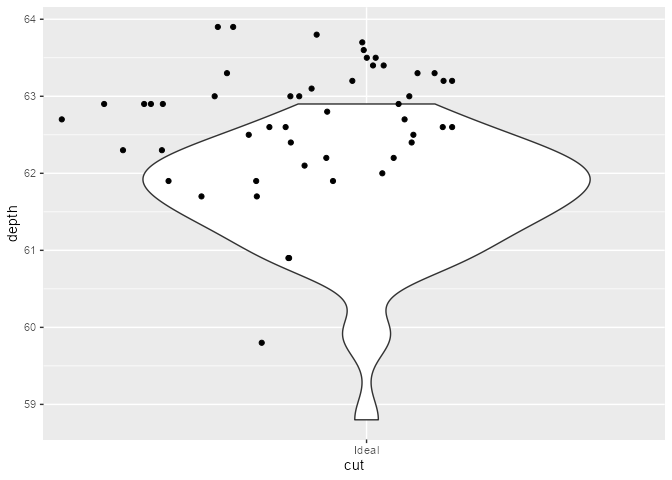
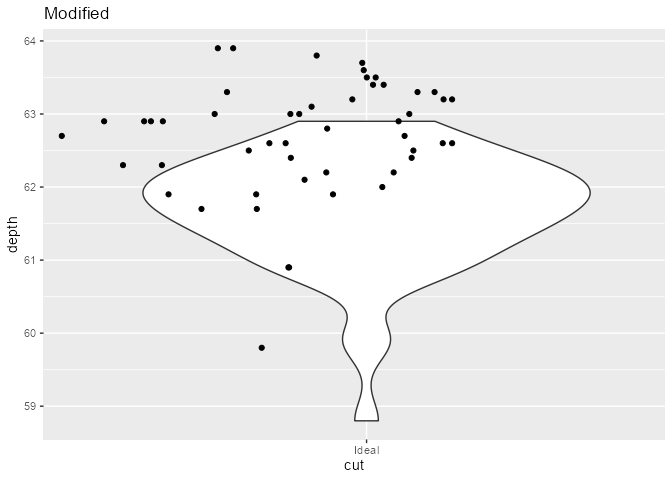
resolves #42

diff --git a/docs/index.html b/docs/index.html
@@ -236,7 +236,7 @@
 <span id="cb4-10"><a href="#cb4-10" aria-hidden="true" tabindex="-1"></a>  ),</span>
 <span id="cb4-11"><a href="#cb4-11" aria-hidden="true" tabindex="-1"></a>  <span class="at">print_output =</span> <span class="cn">FALSE</span>   <span class="co"># Don't print evaluated expressions to console</span></span>
 <span id="cb4-12"><a href="#cb4-12" aria-hidden="true" tabindex="-1"></a>)</span>
-<span id="cb4-13"><a href="#cb4-13" aria-hidden="true" tabindex="-1"></a><span class="co">#&gt; PositionJitter$compute_layer now being traced</span></span>
+<span id="cb4-13"><a href="#cb4-13" aria-hidden="true" tabindex="-1"></a><span class="co">#&gt; PositionJitter$compute_layer now being traced.</span></span>
 <span id="cb4-14"><a href="#cb4-14" aria-hidden="true" tabindex="-1"></a></span>
 <span id="cb4-15"><a href="#cb4-15" aria-hidden="true" tabindex="-1"></a><span class="co"># plot not printed to save space</span></span>
 <span id="cb4-16"><a href="#cb4-16" aria-hidden="true" tabindex="-1"></a>jitter_plot</span>
@@ -351,7 +351,7 @@
 <span id="cb8-4"><a href="#cb8-4" aria-hidden="true" tabindex="-1"></a>  <span class="at">trace_exprs =</span> <span class="fu">quote</span>(<span class="sc">~</span>step), <span class="co"># Grab the gList() object it returns</span></span>
 <span id="cb8-5"><a href="#cb8-5" aria-hidden="true" tabindex="-1"></a>  <span class="at">print_output =</span> <span class="cn">FALSE</span></span>
 <span id="cb8-6"><a href="#cb8-6" aria-hidden="true" tabindex="-1"></a>)</span>
-<span id="cb8-7"><a href="#cb8-7" aria-hidden="true" tabindex="-1"></a><span class="co">#&gt; GeomSmooth$draw_group now being traced</span></span>
+<span id="cb8-7"><a href="#cb8-7" aria-hidden="true" tabindex="-1"></a><span class="co">#&gt; GeomSmooth$draw_group now being traced.</span></span>
 <span id="cb8-8"><a href="#cb8-8" aria-hidden="true" tabindex="-1"></a></span>
 <span id="cb8-9"><a href="#cb8-9" aria-hidden="true" tabindex="-1"></a><span class="co"># plot not printed to save space</span></span>
 <span id="cb8-10"><a href="#cb8-10" aria-hidden="true" tabindex="-1"></a>smooth_plot</span>
@@ -482,13 +482,13 @@
 <span id="cb16-4"><a href="#cb16-4" aria-hidden="true" tabindex="-1"></a>  <span class="at">trace_exprs =</span> rlang<span class="sc">::</span><span class="fu">exprs</span>(</span>
 <span id="cb16-5"><a href="#cb16-5" aria-hidden="true" tabindex="-1"></a>    <span class="at">splits      =</span> <span class="sc">~</span>step,         <span class="co"># What are the splits?</span></span>
 <span id="cb16-6"><a href="#cb16-6" aria-hidden="true" tabindex="-1"></a>    <span class="at">combined    =</span> <span class="sc">~</span>step,         <span class="co"># What does the combined result look like?</span></span>
-<span id="cb16-7"><a href="#cb16-7" aria-hidden="true" tabindex="-1"></a>    <span class="at">runtime_env =</span> <span class="fu">environment</span>()  <span class="co"># Grab the method environment</span></span>
+<span id="cb16-7"><a href="#cb16-7" aria-hidden="true" tabindex="-1"></a>    <span class="at">runtime_env =</span> <span class="fu">environment</span>()  <span class="co"># Grab the method's execution environment</span></span>
 <span id="cb16-8"><a href="#cb16-8" aria-hidden="true" tabindex="-1"></a>  ),</span>
 <span id="cb16-9"><a href="#cb16-9" aria-hidden="true" tabindex="-1"></a>  <span class="at">use_names =</span> <span class="cn">TRUE</span>,       <span class="co"># Use names of `trace_exprs` for names of the tracedump (default)</span></span>
 <span id="cb16-10"><a href="#cb16-10" aria-hidden="true" tabindex="-1"></a>  <span class="at">verbose =</span> <span class="cn">FALSE</span>         <span class="co"># Suppress all printing (except `message()`s)</span></span>
 <span id="cb16-11"><a href="#cb16-11" aria-hidden="true" tabindex="-1"></a>                          <span class="co"># This entails the effects of `print_output = FALSE`</span></span>
 <span id="cb16-12"><a href="#cb16-12" aria-hidden="true" tabindex="-1"></a>)</span>
-<span id="cb16-13"><a href="#cb16-13" aria-hidden="true" tabindex="-1"></a><span class="co">#&gt; Stat$compute_panel now being traced</span></span>
+<span id="cb16-13"><a href="#cb16-13" aria-hidden="true" tabindex="-1"></a><span class="co">#&gt; Stat$compute_panel now being traced.</span></span>
 <span id="cb16-14"><a href="#cb16-14" aria-hidden="true" tabindex="-1"></a></span>
 <span id="cb16-15"><a href="#cb16-15" aria-hidden="true" tabindex="-1"></a><span class="co"># plot not printed to save space</span></span>
 <span id="cb16-16"><a href="#cb16-16" aria-hidden="true" tabindex="-1"></a>boxplot_plot</span>
@@ -501,15 +501,15 @@
 </h3>
 <div class="sourceCode" id="cb17"><pre class="sourceCode R"><code class="sourceCode r"><span id="cb17-1"><a href="#cb17-1" aria-hidden="true" tabindex="-1"></a>boxplot_tracedump <span class="ot">&lt;-</span> <span class="fu">last_ggtrace</span>()</span>
 <span id="cb17-2"><a href="#cb17-2" aria-hidden="true" tabindex="-1"></a></span>
-<span id="cb17-3"><a href="#cb17-3" aria-hidden="true" tabindex="-1"></a><span class="co"># Names are clean</span></span>
+<span id="cb17-3"><a href="#cb17-3" aria-hidden="true" tabindex="-1"></a><span class="co"># Trace dump is named after `trace_exprs`</span></span>
 <span id="cb17-4"><a href="#cb17-4" aria-hidden="true" tabindex="-1"></a><span class="fu">names</span>(boxplot_tracedump)</span>
 <span id="cb17-5"><a href="#cb17-5" aria-hidden="true" tabindex="-1"></a><span class="co">#&gt; [1] "splits"      "combined"    "runtime_env"</span></span>
 <span id="cb17-6"><a href="#cb17-6" aria-hidden="true" tabindex="-1"></a></span>
 <span id="cb17-7"><a href="#cb17-7" aria-hidden="true" tabindex="-1"></a><span class="co"># Inspect the splits</span></span>
-<span id="cb17-8"><a href="#cb17-8" aria-hidden="true" tabindex="-1"></a><span class="fu">sapply</span>(boxplot_tracedump[[<span class="dv">1</span>]], nrow)</span>
+<span id="cb17-8"><a href="#cb17-8" aria-hidden="true" tabindex="-1"></a><span class="fu">sapply</span>(boxplot_tracedump[[<span class="st">"splits"</span>]], nrow)</span>
 <span id="cb17-9"><a href="#cb17-9" aria-hidden="true" tabindex="-1"></a><span class="co">#&gt;   1   2   3   4   5 </span></span>
 <span id="cb17-10"><a href="#cb17-10" aria-hidden="true" tabindex="-1"></a><span class="co">#&gt;  26  51 127 144 152</span></span>
-<span id="cb17-11"><a href="#cb17-11" aria-hidden="true" tabindex="-1"></a><span class="fu">lapply</span>(boxplot_tracedump[[<span class="dv">1</span>]], head, <span class="dv">3</span>)</span>
+<span id="cb17-11"><a href="#cb17-11" aria-hidden="true" tabindex="-1"></a><span class="fu">lapply</span>(boxplot_tracedump<span class="sc">$</span>splits, head, <span class="dv">3</span>)</span>
 <span id="cb17-12"><a href="#cb17-12" aria-hidden="true" tabindex="-1"></a><span class="co">#&gt; $`1`</span></span>
 <span id="cb17-13"><a href="#cb17-13" aria-hidden="true" tabindex="-1"></a><span class="co">#&gt;    x    y PANEL group</span></span>
 <span id="cb17-14"><a href="#cb17-14" aria-hidden="true" tabindex="-1"></a><span class="co">#&gt; 9  1 65.1     1     1</span></span>
@@ -541,7 +541,7 @@
 <span id="cb17-40"><a href="#cb17-40" aria-hidden="true" tabindex="-1"></a><span class="co">#&gt; 14 5 62.2     1     5</span></span>
 <span id="cb17-41"><a href="#cb17-41" aria-hidden="true" tabindex="-1"></a></span>
 <span id="cb17-42"><a href="#cb17-42" aria-hidden="true" tabindex="-1"></a><span class="co"># Manually calculating some boxplot parameters</span></span>
-<span id="cb17-43"><a href="#cb17-43" aria-hidden="true" tabindex="-1"></a><span class="fu">lapply</span>(boxplot_tracedump[[<span class="dv">1</span>]], <span class="cf">function</span>(group) {</span>
+<span id="cb17-43"><a href="#cb17-43" aria-hidden="true" tabindex="-1"></a><span class="fu">lapply</span>(boxplot_tracedump[[<span class="st">"splits"</span>]], <span class="cf">function</span>(group) {</span>
 <span id="cb17-44"><a href="#cb17-44" aria-hidden="true" tabindex="-1"></a>  <span class="fu">quantile</span>(group<span class="sc">$</span>y, <span class="fu">c</span>(<span class="dv">0</span>, <span class="fl">0.25</span>, <span class="fl">0.5</span>, <span class="fl">0.75</span>, <span class="dv">1</span>))</span>
 <span id="cb17-45"><a href="#cb17-45" aria-hidden="true" tabindex="-1"></a>})</span>
 <span id="cb17-46"><a href="#cb17-46" aria-hidden="true" tabindex="-1"></a><span class="co">#&gt; $`1`</span></span>
@@ -565,7 +565,7 @@
 <span id="cb17-64"><a href="#cb17-64" aria-hidden="true" tabindex="-1"></a><span class="co">#&gt; 58.80 61.30 61.75 62.20 62.90</span></span>
 <span id="cb17-65"><a href="#cb17-65" aria-hidden="true" tabindex="-1"></a></span>
 <span id="cb17-66"><a href="#cb17-66" aria-hidden="true" tabindex="-1"></a><span class="co"># The combined result</span></span>
-<span id="cb17-67"><a href="#cb17-67" aria-hidden="true" tabindex="-1"></a>boxplot_tracedump[[<span class="dv">2</span>]]</span>
+<span id="cb17-67"><a href="#cb17-67" aria-hidden="true" tabindex="-1"></a>boxplot_tracedump[[<span class="st">"combined"</span>]]</span>
 <span id="cb17-68"><a href="#cb17-68" aria-hidden="true" tabindex="-1"></a><span class="co">#&gt;   ymin lower middle  upper ymax               outliers notchupper notchlower x</span></span>
 <span id="cb17-69"><a href="#cb17-69" aria-hidden="true" tabindex="-1"></a><span class="co">#&gt; 1 53.1 58.85  64.80 65.775 68.1                          66.94580   62.65420 1</span></span>
 <span id="cb17-70"><a href="#cb17-70" aria-hidden="true" tabindex="-1"></a><span class="co">#&gt; 2 56.9 60.20  63.30 63.950 65.2                          64.12967   62.47033 2</span></span>
@@ -580,13 +580,13 @@
 <span id="cb17-79"><a href="#cb17-79" aria-hidden="true" tabindex="-1"></a><span class="co">#&gt; 5  0.75   12.328828       FALSE     1     5</span></span></code></pre></div>
 <p>Using the returned environment opens up more powerful manipulations:</p>
 <div class="sourceCode" id="cb18"><pre class="sourceCode R"><code class="sourceCode r"><span id="cb18-1"><a href="#cb18-1" aria-hidden="true" tabindex="-1"></a><span class="co"># What was inside the method environment?</span></span>
-<span id="cb18-2"><a href="#cb18-2" aria-hidden="true" tabindex="-1"></a><span class="fu">ls</span>(<span class="at">envir =</span> boxplot_tracedump[[<span class="dv">3</span>]])</span>
+<span id="cb18-2"><a href="#cb18-2" aria-hidden="true" tabindex="-1"></a><span class="fu">ls</span>(<span class="at">envir =</span> boxplot_tracedump[[<span class="st">"runtime_env"</span>]])</span>
 <span id="cb18-3"><a href="#cb18-3" aria-hidden="true" tabindex="-1"></a><span class="co">#&gt; [1] "data"   "groups" "scales" "self"   "stats"</span></span>
 <span id="cb18-4"><a href="#cb18-4" aria-hidden="true" tabindex="-1"></a></span>
 <span id="cb18-5"><a href="#cb18-5" aria-hidden="true" tabindex="-1"></a><span class="co"># Evaluate the expression in Step 6 with the method's runtime environment</span></span>
 <span id="cb18-6"><a href="#cb18-6" aria-hidden="true" tabindex="-1"></a><span class="fu">eval</span>(</span>
 <span id="cb18-7"><a href="#cb18-7" aria-hidden="true" tabindex="-1"></a>  <span class="fu">ggbody</span>(Stat<span class="sc">$</span>compute_panel)[[<span class="dv">6</span>]],</span>
-<span id="cb18-8"><a href="#cb18-8" aria-hidden="true" tabindex="-1"></a>  <span class="at">envir =</span> boxplot_tracedump[[<span class="dv">3</span>]]</span>
+<span id="cb18-8"><a href="#cb18-8" aria-hidden="true" tabindex="-1"></a>  <span class="at">envir =</span> boxplot_tracedump[[<span class="st">"runtime_env"</span>]]</span>
 <span id="cb18-9"><a href="#cb18-9" aria-hidden="true" tabindex="-1"></a>)</span>
 <span id="cb18-10"><a href="#cb18-10" aria-hidden="true" tabindex="-1"></a><span class="co">#&gt;   ymin lower middle  upper ymax               outliers notchupper notchlower x</span></span>
 <span id="cb18-11"><a href="#cb18-11" aria-hidden="true" tabindex="-1"></a><span class="co">#&gt; 1 53.1 58.85  64.80 65.775 68.1                          66.94580   62.65420 1</span></span>
@@ -602,15 +602,15 @@
 <span id="cb18-21"><a href="#cb18-21" aria-hidden="true" tabindex="-1"></a><span class="co">#&gt; 5  0.75   12.328828       FALSE     1     5</span></span>
 <span id="cb18-22"><a href="#cb18-22" aria-hidden="true" tabindex="-1"></a></span>
 <span id="cb18-23"><a href="#cb18-23" aria-hidden="true" tabindex="-1"></a><span class="co"># Manually call the compute_group method from StatBoxplot to apply</span></span>
-<span id="cb18-24"><a href="#cb18-24" aria-hidden="true" tabindex="-1"></a><span class="co"># transformation to the first group using the method environment</span></span>
+<span id="cb18-24"><a href="#cb18-24" aria-hidden="true" tabindex="-1"></a><span class="co"># transformation to the third group using the method environment</span></span>
 <span id="cb18-25"><a href="#cb18-25" aria-hidden="true" tabindex="-1"></a><span class="fu">eval</span>(</span>
-<span id="cb18-26"><a href="#cb18-26" aria-hidden="true" tabindex="-1"></a>  <span class="fu">quote</span>(StatBoxplot<span class="sc">$</span><span class="fu">compute_group</span>(groups[[<span class="dv">1</span>]], scales, ...)),</span>
-<span id="cb18-27"><a href="#cb18-27" aria-hidden="true" tabindex="-1"></a>  <span class="at">envir =</span> boxplot_tracedump[[<span class="dv">3</span>]]</span>
+<span id="cb18-26"><a href="#cb18-26" aria-hidden="true" tabindex="-1"></a>  <span class="fu">quote</span>(StatBoxplot<span class="sc">$</span><span class="fu">compute_group</span>(groups[[<span class="dv">3</span>]], scales, ...)),</span>
+<span id="cb18-27"><a href="#cb18-27" aria-hidden="true" tabindex="-1"></a>  <span class="at">envir =</span> boxplot_tracedump[[<span class="st">"runtime_env"</span>]]</span>
 <span id="cb18-28"><a href="#cb18-28" aria-hidden="true" tabindex="-1"></a>)</span>
-<span id="cb18-29"><a href="#cb18-29" aria-hidden="true" tabindex="-1"></a><span class="co">#&gt;   ymin lower middle  upper ymax outliers notchupper notchlower x width</span></span>
-<span id="cb18-30"><a href="#cb18-30" aria-hidden="true" tabindex="-1"></a><span class="co">#&gt; 1 53.1 58.85   64.8 65.775 68.1             66.9458    62.6542 1  0.75</span></span>
+<span id="cb18-29"><a href="#cb18-29" aria-hidden="true" tabindex="-1"></a><span class="co">#&gt;   ymin lower middle upper ymax outliers notchupper notchlower x width</span></span>
+<span id="cb18-30"><a href="#cb18-30" aria-hidden="true" tabindex="-1"></a><span class="co">#&gt; 1 57.5  60.7     62  63.1   64            62.33649   61.66351 3  0.75</span></span>
 <span id="cb18-31"><a href="#cb18-31" aria-hidden="true" tabindex="-1"></a><span class="co">#&gt;   relvarwidth flipped_aes</span></span>
-<span id="cb18-32"><a href="#cb18-32" aria-hidden="true" tabindex="-1"></a><span class="co">#&gt; 1     5.09902       FALSE</span></span></code></pre></div>
+<span id="cb18-32"><a href="#cb18-32" aria-hidden="true" tabindex="-1"></a><span class="co">#&gt; 1    11.26943       FALSE</span></span></code></pre></div>
 </div>
 </div>
 <div id="example-4---compute_group-method-from-statsina-ggforce" class="section level2">
@@ -625,8 +625,9 @@
 <span id="cb19-2"><a href="#cb19-2" aria-hidden="true" tabindex="-1"></a></span>
 <span id="cb19-3"><a href="#cb19-3" aria-hidden="true" tabindex="-1"></a>sina_plot <span class="ot">&lt;-</span> <span class="fu">ggplot</span>(diamonds[diamonds<span class="sc">$</span>cut <span class="sc">==</span> <span class="st">"Ideal"</span>,][<span class="dv">1</span><span class="sc">:</span><span class="dv">50</span>,], <span class="fu">aes</span>(cut, depth)) <span class="sc">+</span></span>
 <span id="cb19-4"><a href="#cb19-4" aria-hidden="true" tabindex="-1"></a>  <span class="fu">geom_violin</span>() <span class="sc">+</span></span>
-<span id="cb19-5"><a href="#cb19-5" aria-hidden="true" tabindex="-1"></a>  <span class="fu">geom_sina</span>(<span class="at">seed =</span> <span class="dv">2021</span>)</span>
-<span id="cb19-6"><a href="#cb19-6" aria-hidden="true" tabindex="-1"></a>sina_plot</span></code></pre></div>
+<span id="cb19-5"><a href="#cb19-5" aria-hidden="true" tabindex="-1"></a>  <span class="fu">geom_sina</span>(<span class="at">seed =</span> <span class="dv">2021</span>) <span class="sc">+</span></span>
+<span id="cb19-6"><a href="#cb19-6" aria-hidden="true" tabindex="-1"></a>  <span class="fu">ggtitle</span>(<span class="st">"Original"</span>)</span>
+<span id="cb19-7"><a href="#cb19-7" aria-hidden="true" tabindex="-1"></a>sina_plot</span></code></pre></div>
 <p><img src="reference/figures/README-ex-4-setup-1.png" width="100%"></p>
 </div>
 <div id="step-2-inspect-body-of-the-ggproto-method-3" class="section level3">
@@ -698,42 +699,45 @@
 <span id="cb21-13"><a href="#cb21-13" aria-hidden="true" tabindex="-1"></a>  ),</span>
 <span id="cb21-14"><a href="#cb21-14" aria-hidden="true" tabindex="-1"></a>  <span class="at">verbose =</span> <span class="cn">FALSE</span></span>
 <span id="cb21-15"><a href="#cb21-15" aria-hidden="true" tabindex="-1"></a>)</span>
-<span id="cb21-16"><a href="#cb21-16" aria-hidden="true" tabindex="-1"></a><span class="co">#&gt; StatSina$compute_group now being traced</span></span>
+<span id="cb21-16"><a href="#cb21-16" aria-hidden="true" tabindex="-1"></a><span class="co">#&gt; StatSina$compute_group now being traced.</span></span>
 <span id="cb21-17"><a href="#cb21-17" aria-hidden="true" tabindex="-1"></a></span>
-<span id="cb21-18"><a href="#cb21-18" aria-hidden="true" tabindex="-1"></a>sina_plot</span>
+<span id="cb21-18"><a href="#cb21-18" aria-hidden="true" tabindex="-1"></a>sina_plot_modified <span class="ot">&lt;-</span> <span class="fu">ggplotGrob</span>(sina_plot <span class="sc">+</span> <span class="fu">ggtitle</span>(<span class="st">"Modified"</span>))</span>
 <span id="cb21-19"><a href="#cb21-19" aria-hidden="true" tabindex="-1"></a><span class="co">#&gt; Triggering trace on StatSina$compute_group</span></span>
-<span id="cb21-20"><a href="#cb21-20" aria-hidden="true" tabindex="-1"></a><span class="co">#&gt; Untracing StatSina$compute_group on exit.</span></span></code></pre></div>
+<span id="cb21-20"><a href="#cb21-20" aria-hidden="true" tabindex="-1"></a><span class="co">#&gt; Untracing StatSina$compute_group on exit.</span></span>
+<span id="cb21-21"><a href="#cb21-21" aria-hidden="true" tabindex="-1"></a><span class="fu">grid.draw</span>(sina_plot_modified)</span></code></pre></div>
 <p><img src="reference/figures/README-ex-4-ggtrace-1.png" width="100%"></p>
-<p>This effect is ephemeral with the <code>once = TRUE</code> default in <code><a href="reference/ggtrace.html">ggtrace()</a></code>, meaning that only this last plot is built with the modifications.</p>
+<p>This effect is ephemeral with the <code>once = TRUE</code> default in <code><a href="reference/ggtrace.html">ggtrace()</a></code>, meaning that only this last plot saved to <code>sina_plot_modified</code> is rendered with the modifications.</p>
 <p>Here we confirm that the method is restored on exit:</p>
 <div class="sourceCode" id="cb22"><pre class="sourceCode R"><code class="sourceCode r"><span id="cb22-1"><a href="#cb22-1" aria-hidden="true" tabindex="-1"></a>sina_plot</span></code></pre></div>
 <p><img src="reference/figures/README-ex-4-ggtrace-restored-1.png" width="100%"></p>
+<div class="sourceCode" id="cb23"><pre class="sourceCode R"><code class="sourceCode r"><span id="cb23-1"><a href="#cb23-1" aria-hidden="true" tabindex="-1"></a>sina_plot <span class="sc">+</span> <span class="fu">wrap_elements</span>(<span class="at">full =</span> sina_plot_modified)</span></code></pre></div>
+<p><img src="reference/figures/README-ex-4-ggtrace-restored-2.png" width="100%"></p>
 </div>
 <div id="step-4-inspect-trace-dump-3" class="section level3">
 <h3 class="hasAnchor">
 <a href="#step-4-inspect-trace-dump-3" class="anchor"></a><strong>Step 4. Inspect trace dump</strong>
 </h3>
-<div class="sourceCode" id="cb23"><pre class="sourceCode R"><code class="sourceCode r"><span id="cb23-1"><a href="#cb23-1" aria-hidden="true" tabindex="-1"></a>sina_tracedump <span class="ot">&lt;-</span> <span class="fu">last_ggtrace</span>()</span>
-<span id="cb23-2"><a href="#cb23-2" aria-hidden="true" tabindex="-1"></a></span>
-<span id="cb23-3"><a href="#cb23-3" aria-hidden="true" tabindex="-1"></a><span class="co"># StatSina did calculations on the modified data in the last `ggtrace()`</span></span>
-<span id="cb23-4"><a href="#cb23-4" aria-hidden="true" tabindex="-1"></a><span class="fu">lapply</span>(sina_tracedump, head, <span class="dv">3</span>)</span>
-<span id="cb23-5"><a href="#cb23-5" aria-hidden="true" tabindex="-1"></a><span class="co">#&gt; [[1]]</span></span>
-<span id="cb23-6"><a href="#cb23-6" aria-hidden="true" tabindex="-1"></a><span class="co">#&gt;   x    y PANEL group</span></span>
-<span id="cb23-7"><a href="#cb23-7" aria-hidden="true" tabindex="-1"></a><span class="co">#&gt; 1 1 61.5     1     1</span></span>
-<span id="cb23-8"><a href="#cb23-8" aria-hidden="true" tabindex="-1"></a><span class="co">#&gt; 2 1 62.8     1     1</span></span>
-<span id="cb23-9"><a href="#cb23-9" aria-hidden="true" tabindex="-1"></a><span class="co">#&gt; 3 1 62.2     1     1</span></span>
-<span id="cb23-10"><a href="#cb23-10" aria-hidden="true" tabindex="-1"></a><span class="co">#&gt; </span></span>
-<span id="cb23-11"><a href="#cb23-11" aria-hidden="true" tabindex="-1"></a><span class="co">#&gt; [[2]]</span></span>
-<span id="cb23-12"><a href="#cb23-12" aria-hidden="true" tabindex="-1"></a><span class="co">#&gt;     x    y PANEL group</span></span>
-<span id="cb23-13"><a href="#cb23-13" aria-hidden="true" tabindex="-1"></a><span class="co">#&gt; 1 0.8 62.5     1     1</span></span>
-<span id="cb23-14"><a href="#cb23-14" aria-hidden="true" tabindex="-1"></a><span class="co">#&gt; 2 0.8 63.8     1     1</span></span>
-<span id="cb23-15"><a href="#cb23-15" aria-hidden="true" tabindex="-1"></a><span class="co">#&gt; 3 0.8 63.2     1     1</span></span>
-<span id="cb23-16"><a href="#cb23-16" aria-hidden="true" tabindex="-1"></a><span class="co">#&gt; </span></span>
-<span id="cb23-17"><a href="#cb23-17" aria-hidden="true" tabindex="-1"></a><span class="co">#&gt; [[3]]</span></span>
-<span id="cb23-18"><a href="#cb23-18" aria-hidden="true" tabindex="-1"></a><span class="co">#&gt;     x    y PANEL group   density    scaled width  n</span></span>
-<span id="cb23-19"><a href="#cb23-19" aria-hidden="true" tabindex="-1"></a><span class="co">#&gt; 1 0.8 62.5     1     1 0.4632389 0.8454705   0.9 50</span></span>
-<span id="cb23-20"><a href="#cb23-20" aria-hidden="true" tabindex="-1"></a><span class="co">#&gt; 2 0.8 63.8     1     1 0.2134967 0.3896590   0.9 50</span></span>
-<span id="cb23-21"><a href="#cb23-21" aria-hidden="true" tabindex="-1"></a><span class="co">#&gt; 3 0.8 63.2     1     1 0.4973098 0.9076543   0.9 50</span></span></code></pre></div>
+<div class="sourceCode" id="cb24"><pre class="sourceCode R"><code class="sourceCode r"><span id="cb24-1"><a href="#cb24-1" aria-hidden="true" tabindex="-1"></a>sina_tracedump <span class="ot">&lt;-</span> <span class="fu">last_ggtrace</span>()</span>
+<span id="cb24-2"><a href="#cb24-2" aria-hidden="true" tabindex="-1"></a></span>
+<span id="cb24-3"><a href="#cb24-3" aria-hidden="true" tabindex="-1"></a><span class="co"># StatSina did calculations on the modified data in the last `ggtrace()`</span></span>
+<span id="cb24-4"><a href="#cb24-4" aria-hidden="true" tabindex="-1"></a><span class="fu">lapply</span>(sina_tracedump, head, <span class="dv">3</span>)</span>
+<span id="cb24-5"><a href="#cb24-5" aria-hidden="true" tabindex="-1"></a><span class="co">#&gt; [[1]]</span></span>
+<span id="cb24-6"><a href="#cb24-6" aria-hidden="true" tabindex="-1"></a><span class="co">#&gt;   x    y PANEL group</span></span>
+<span id="cb24-7"><a href="#cb24-7" aria-hidden="true" tabindex="-1"></a><span class="co">#&gt; 1 1 61.5     1     1</span></span>
+<span id="cb24-8"><a href="#cb24-8" aria-hidden="true" tabindex="-1"></a><span class="co">#&gt; 2 1 62.8     1     1</span></span>
+<span id="cb24-9"><a href="#cb24-9" aria-hidden="true" tabindex="-1"></a><span class="co">#&gt; 3 1 62.2     1     1</span></span>
+<span id="cb24-10"><a href="#cb24-10" aria-hidden="true" tabindex="-1"></a><span class="co">#&gt; </span></span>
+<span id="cb24-11"><a href="#cb24-11" aria-hidden="true" tabindex="-1"></a><span class="co">#&gt; [[2]]</span></span>
+<span id="cb24-12"><a href="#cb24-12" aria-hidden="true" tabindex="-1"></a><span class="co">#&gt;     x    y PANEL group</span></span>
+<span id="cb24-13"><a href="#cb24-13" aria-hidden="true" tabindex="-1"></a><span class="co">#&gt; 1 0.8 62.5     1     1</span></span>
+<span id="cb24-14"><a href="#cb24-14" aria-hidden="true" tabindex="-1"></a><span class="co">#&gt; 2 0.8 63.8     1     1</span></span>
+<span id="cb24-15"><a href="#cb24-15" aria-hidden="true" tabindex="-1"></a><span class="co">#&gt; 3 0.8 63.2     1     1</span></span>
+<span id="cb24-16"><a href="#cb24-16" aria-hidden="true" tabindex="-1"></a><span class="co">#&gt; </span></span>
+<span id="cb24-17"><a href="#cb24-17" aria-hidden="true" tabindex="-1"></a><span class="co">#&gt; [[3]]</span></span>
+<span id="cb24-18"><a href="#cb24-18" aria-hidden="true" tabindex="-1"></a><span class="co">#&gt;     x    y PANEL group   density    scaled width  n</span></span>
+<span id="cb24-19"><a href="#cb24-19" aria-hidden="true" tabindex="-1"></a><span class="co">#&gt; 1 0.8 62.5     1     1 0.4632389 0.8454705   0.9 50</span></span>
+<span id="cb24-20"><a href="#cb24-20" aria-hidden="true" tabindex="-1"></a><span class="co">#&gt; 2 0.8 63.8     1     1 0.2134967 0.3896590   0.9 50</span></span>
+<span id="cb24-21"><a href="#cb24-21" aria-hidden="true" tabindex="-1"></a><span class="co">#&gt; 3 0.8 63.2     1     1 0.4973098 0.9076543   0.9 50</span></span></code></pre></div>
 </div>
 </div>
 </div>

diff --git a/README.md b/README.md
@@ -118,7 +118,7 @@ You can install the development version from
       ),
       print_output = FALSE   # Don't print evaluated expressions to console
     )
-    #> PositionJitter$compute_layer now being traced
+    #> PositionJitter$compute_layer now being traced.
 
     # plot not printed to save space
     jitter_plot
@@ -223,7 +223,7 @@ You can install the development version from
       trace_exprs = quote(~step), # Grab the gList() object it returns
       print_output = FALSE
     )
-    #> GeomSmooth$draw_group now being traced
+    #> GeomSmooth$draw_group now being traced.
 
     # plot not printed to save space
     smooth_plot
@@ -368,13 +368,13 @@ Let’s return the split and the combine:
       trace_exprs = rlang::exprs(
         splits      = ~step,         # What are the splits?
         combined    = ~step,         # What does the combined result look like?
-        runtime_env = environment()  # Grab the method environment
+        runtime_env = environment()  # Grab the method's execution environment
       ),
       use_names = TRUE,       # Use names of `trace_exprs` for names of the tracedump (default)
       verbose = FALSE         # Suppress all printing (except `message()`s)
                               # This entails the effects of `print_output = FALSE`
     )
-    #> Stat$compute_panel now being traced
+    #> Stat$compute_panel now being traced.
 
     # plot not printed to save space
     boxplot_plot
@@ -385,15 +385,15 @@ Let’s return the split and the combine:
 
     boxplot_tracedump <- last_ggtrace()
 
-    # Names are clean
+    # Trace dump is named after `trace_exprs`
     names(boxplot_tracedump)
     #> [1] "splits"      "combined"    "runtime_env"
 
     # Inspect the splits
-    sapply(boxplot_tracedump[[1]], nrow)
+    sapply(boxplot_tracedump[["splits"]], nrow)
     #>   1   2   3   4   5 
     #>  26  51 127 144 152
-    lapply(boxplot_tracedump[[1]], head, 3)
+    lapply(boxplot_tracedump$splits, head, 3)
     #> $`1`
     #>    x    y PANEL group
     #> 9  1 65.1     1     1
@@ -425,7 +425,7 @@ Let’s return the split and the combine:
     #> 14 5 62.2     1     5
 
     # Manually calculating some boxplot parameters
-    lapply(boxplot_tracedump[[1]], function(group) {
+    lapply(boxplot_tracedump[["splits"]], function(group) {
       quantile(group$y, c(0, 0.25, 0.5, 0.75, 1))
     })
     #> $`1`
@@ -449,7 +449,7 @@ Let’s return the split and the combine:
     #> 58.80 61.30 61.75 62.20 62.90
 
     # The combined result
-    boxplot_tracedump[[2]]
+    boxplot_tracedump[["combined"]]
     #>   ymin lower middle  upper ymax               outliers notchupper notchlower x
     #> 1 53.1 58.85  64.80 65.775 68.1                          66.94580   62.65420 1
     #> 2 56.9 60.20  63.30 63.950 65.2                          64.12967   62.47033 2
@@ -466,13 +466,13 @@ Let’s return the split and the combine:
 Using the returned environment opens up more powerful manipulations:
 
     # What was inside the method environment?
-    ls(envir = boxplot_tracedump[[3]])
+    ls(envir = boxplot_tracedump[["runtime_env"]])
     #> [1] "data"   "groups" "scales" "self"   "stats"
 
     # Evaluate the expression in Step 6 with the method's runtime environment
     eval(
       ggbody(Stat$compute_panel)[[6]],
-      envir = boxplot_tracedump[[3]]
+      envir = boxplot_tracedump[["runtime_env"]]
     )
     #>   ymin lower middle  upper ymax               outliers notchupper notchlower x
     #> 1 53.1 58.85  64.80 65.775 68.1                          66.94580   62.65420 1
@@ -488,15 +488,15 @@ Using the returned environment opens up more powerful manipulations:
     #> 5  0.75   12.328828       FALSE     1     5
 
     # Manually call the compute_group method from StatBoxplot to apply
-    # transformation to the first group using the method environment
+    # transformation to the third group using the method environment
     eval(
-      quote(StatBoxplot$compute_group(groups[[1]], scales, ...)),
-      envir = boxplot_tracedump[[3]]
+      quote(StatBoxplot$compute_group(groups[[3]], scales, ...)),
+      envir = boxplot_tracedump[["runtime_env"]]
     )
-    #>   ymin lower middle  upper ymax outliers notchupper notchlower x width
-    #> 1 53.1 58.85   64.8 65.775 68.1             66.9458    62.6542 1  0.75
+    #>   ymin lower middle upper ymax outliers notchupper notchlower x width
+    #> 1 57.5  60.7     62  63.1   64            62.33649   61.66351 3  0.75
     #>   relvarwidth flipped_aes
-    #> 1     5.09902       FALSE
+    #> 1    11.26943       FALSE
 
 ## **Example 4 - `compute_group` method from `StatSina` {ggforce}**
 
@@ -506,7 +506,8 @@ Using the returned environment opens up more powerful manipulations:
 
     sina_plot <- ggplot(diamonds[diamonds$cut == "Ideal",][1:50,], aes(cut, depth)) +
       geom_violin() +
-      geom_sina(seed = 2021)
+      geom_sina(seed = 2021) +
+      ggtitle("Original")
     sina_plot
 
 <img src="man/figures/README-ex-4-setup-1.png" width="100%" />
@@ -576,22 +577,29 @@ Using the returned environment opens up more powerful manipulations:
       ),
       verbose = FALSE
     )
-    #> StatSina$compute_group now being traced
+    #> StatSina$compute_group now being traced.
 
-    sina_plot
+    sina_plot_modified <- ggplotGrob(sina_plot + ggtitle("Modified"))
     #> Triggering trace on StatSina$compute_group
     #> Untracing StatSina$compute_group on exit.
+    grid.draw(sina_plot_modified)
 
 <img src="man/figures/README-ex-4-ggtrace-1.png" width="100%" />
 
 This effect is ephemeral with the `once = TRUE` default in `ggtrace()`,
-meaning that only this last plot is built with the modifications.
+meaning that only this last plot saved to `sina_plot_modified` is
+rendered with the modifications.
 
 Here we confirm that the method is restored on exit:
 
     sina_plot
 
 <img src="man/figures/README-ex-4-ggtrace-restored-1.png" width="100%" />
+
+
+    sina_plot + wrap_elements(full = sina_plot_modified)
+
+<img src="man/figures/README-ex-4-ggtrace-restored-2.png" width="100%" />
 
 ### **Step 4. Inspect trace dump**
 
